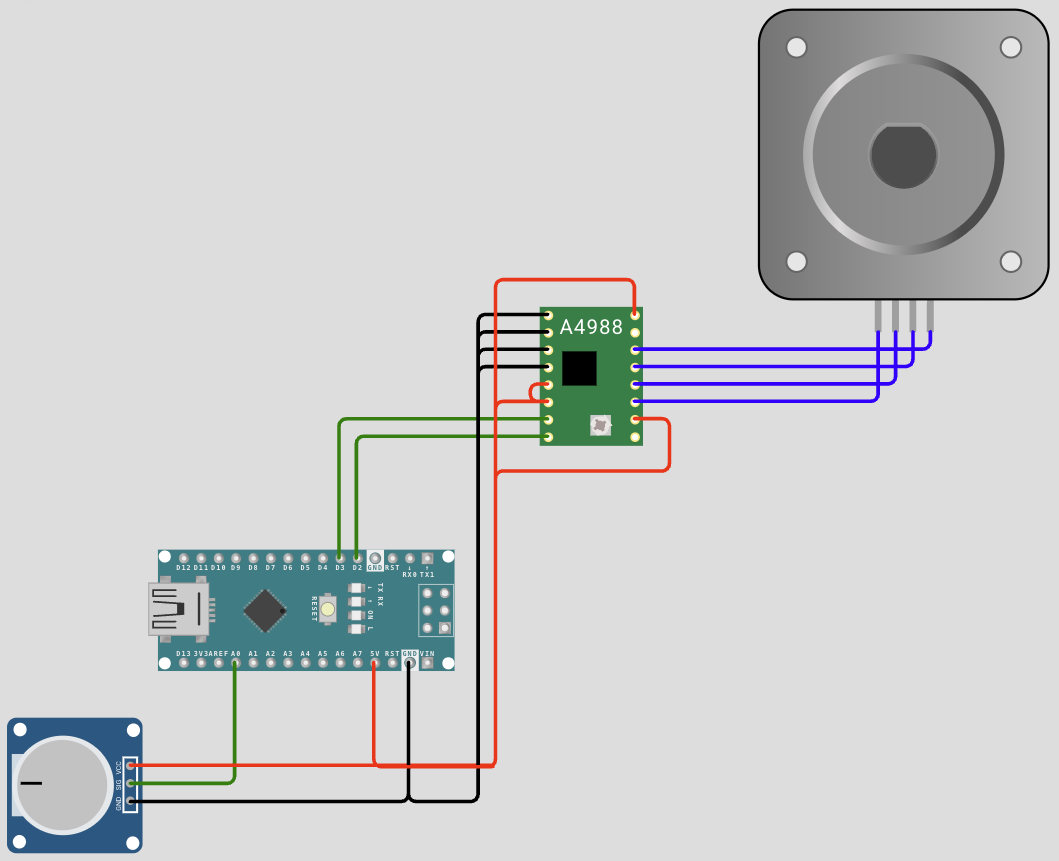
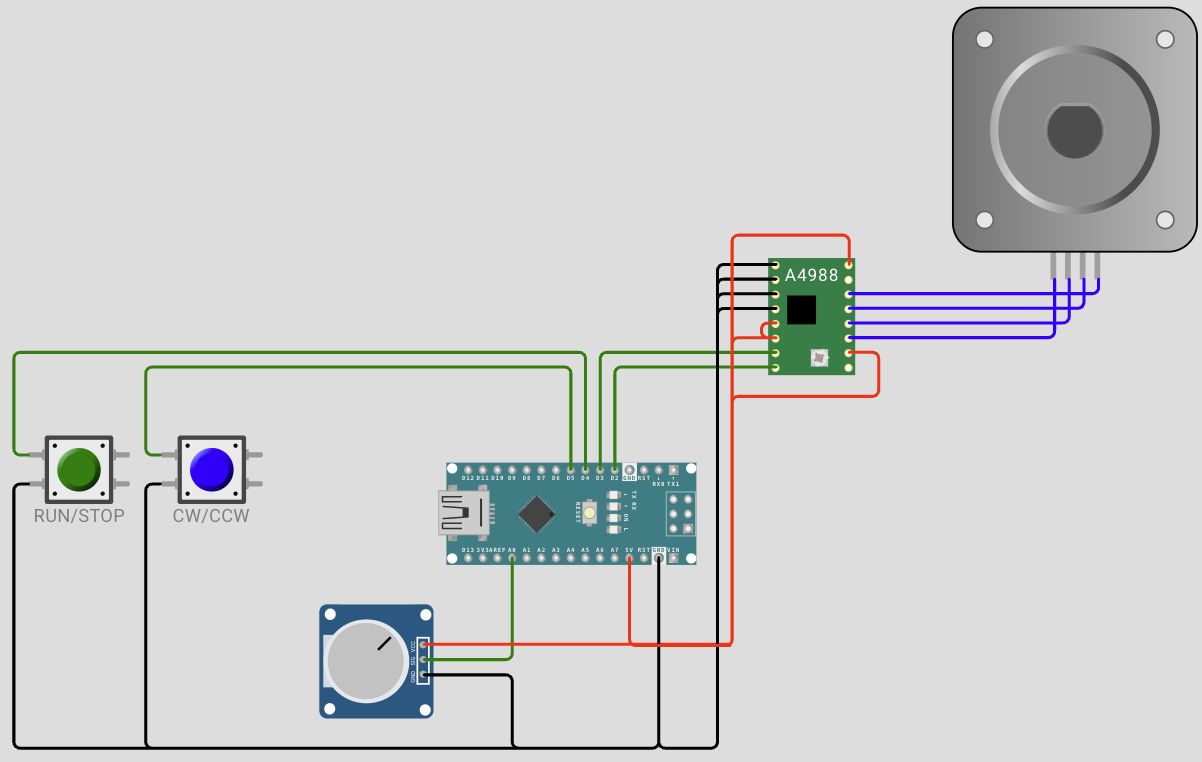
feat(stepper): add run/stop and CW/CCW buttons with proper accel/decel on reversal
- What: two debounced pushbuttons (run/stop on D4, direction on D5) toggling running/clockwise state each press, both read unconditionally every loop so direction can be changed while stopped; extracted Button.h as a standalone, stepper-agnostic debounced-edge-detector (was inline in Stepper.h); rewrote the Library strategy from AccelStepper's constant-speed setSpeed()/runSpeed() to its moveTo()/run() with setAcceleration(), retargeting far ahead in the current direction so continuous rotation still ramps properly, including through a live direction reversal; added two pushbuttons to the Wokwi diagram
- Why: the constant-speed API has zero acceleration, so a direction-button press while spinning would have instantly reversed the motor at full speed -- a real risk of skipped steps and mechanical stress on actual hardware, not just a simulation nicety; Button.h didn't belong scoped inside Stepper.h since debouncing a switch and mapping a pot to a speed are unrelated concerns
- How: moveTo()/run() only ramps speed while approaching a target, so "spin indefinitely" means retargeting far ahead and never arriving; a direction flip (or the target getting close) retargets far the other way, and run() decelerates to a stop then accelerates the other way using the library's own ramp; setMaxSpeed() is refreshed from the pot every call so stopping also ramps down smoothly instead of cutting the motor
[…]

Changed region(s): [[0.0, 0.0, 0.9972, 0.9961]]

diff --git a/arduino-nano/stepper/src/main.cpp b/arduino-nano/stepper/src/main.cpp
@@ -1,46 +1,76 @@
 #include <Arduino.h>
 #include <AccelStepper.h>
 
+#include "Button.h"
 #include "Stepper.h"
 
 namespace {
 
 // Pin assignments. ENABLE/MS1/MS2/MS3 are hardwired to GND on the driver board (always enabled,
 // full-step) rather than driven by the MCU -- this project is about step-pulse timing, not
-// microstepping, so keeping those off the pin list keeps the firmware to just pot + DIR + STEP.
+// microstepping, so keeping those off the pin list keeps the firmware to just pot + DIR + STEP +
+// two buttons.
 constexpr uint8_t PIN_POT = A0;
 constexpr uint8_t PIN_DIR = 2;
 constexpr uint8_t PIN_STEP = 3;
+constexpr uint8_t PIN_BTN_RUN_STOP = 4;
+constexpr uint8_t PIN_BTN_DIRECTION = 5;
 
 constexpr uint8_t EMA_SHIFT = 3;  // pot smoothing strength
 
-// Stepper strategy: Library (AccelStepper's constant-speed runSpeed(), which handles step timing
-// for you) vs DirectPulse (from-scratch micros()-timed step generation, no library, no
-// acceleration curve -- see README's "Stepper strategy" section for why both exist).
+// Stepper strategy: Library (AccelStepper's moveTo()/run(), ramped by setAcceleration() -- see
+// renderLibrary() below) vs DirectPulse (from-scratch micros()-timed step generation, no library,
+// no acceleration curve -- see README's "Stepper strategy" section for why both exist).
 enum class StepMode : uint8_t { Library, DirectPulse };
 constexpr StepMode STEP_MODE = StepMode::Library;
+
+constexpr float STEPPER_ACCELERATION = 500;  // steps/sec^2 -- ramp rate for Library mode
+// Retargeted far ahead in the current direction so run() always has room to ramp up to cruise
+// speed without ever actually arriving -- see renderLibrary()'s comment for why.
+constexpr long FAR_STEPS = 2000000L;
 
 // Serial/Teleplot trace of raw -> speed, off by default -- flip to true to debug.
 constexpr bool     DEBUG_TRACE_ENABLED     = false;
 constexpr uint32_t DEBUG_TRACE_INTERVAL_MS = 200;
 
 uint16_t smoothed = 0;
+bool     running   = false;  // starts stopped -- safer default than spinning on power-up
+bool     clockwise = true;
+
+input::Button runStopButton;
+input::Button directionButton;
 
 AccelStepper accelStepper(AccelStepper::DRIVER, PIN_STEP, PIN_DIR);
-uint32_t lastStepMicros = 0;
-bool     stepPinHigh    = false;
+bool         lastClockwise = true;  // direction the current moveTo() target was set for
+uint32_t     lastStepMicros = 0;
+bool         stepPinHigh    = false;
 
-// AccelStepper's constant-speed mode: no acceleration curve, just steps at a fixed rate until
-// the speed changes. setSpeed() takes signed steps/sec (negative = reverse); this project only
-// spins one direction, so speed is always >= 0.
-void renderLibrary(uint16_t speed) {
-  accelStepper.setSpeed(speed);
-  accelStepper.runSpeed();
+// Continuous, speed-controlled rotation with a proper accel/decel ramp -- including on direction
+// reversal -- built entirely from AccelStepper's moveTo()/run(), not a custom ramp. The trick:
+// run() only ramps speed *while approaching a moveTo() target*, so "spin indefinitely" means
+// retargeting far ahead in the current direction and never actually arriving. On a direction
+// flip (or once the target gets close), retarget far the other way; run() then decelerates to a
+// stop at setAcceleration()'s rate and accelerates the other way -- the same mechanism that
+// would otherwise just slow down to arrive at a real target. setMaxSpeed() is updated every call
+// so the pot continuously retargets the cruise speed, which also means stopping (speed 0) ramps
+// down smoothly instead of cutting the motor immediately.
+//
+// AccelStepper owns the DIR pin itself for the DRIVER interface -- this never writes to it
+// directly (that would fight the library for control of the pin).
+void renderLibrary(uint16_t speed, bool clockwise) {
+  if (clockwise != lastClockwise || labs(accelStepper.distanceToGo()) < FAR_STEPS / 10) {
+    lastClockwise = clockwise;
+    accelStepper.moveTo(accelStepper.currentPosition() + (clockwise ? FAR_STEPS : -FAR_STEPS));
+  }
+  accelStepper.setMaxSpeed(speed);
+  accelStepper.run();
 }
 
 // From-scratch step-pulse generator: toggles STEP high/low at stepIntervalMicros(speed), timed
-// entirely by micros() -- no AccelStepper involved. speed == 0 holds STEP low (motor at rest).
-void renderDirectPulse(uint16_t speed) {
+// entirely by micros() -- no AccelStepper involved, so DIR is ours to drive directly. speed == 0
+// holds STEP low (motor at rest).
+void renderDirectPulse(uint16_t speed, bool clockwise) {
+  digitalWrite(PIN_DIR, clockwise ? HIGH : LOW);
   if (speed == 0) {
     digitalWrite(PIN_STEP, LOW);
     return;
@@ -52,13 +82,16 @@ void renderDirectPulse(uint16_t speed) {
   }
 }
 
-// Teleplot-format trace (raw pot -> speed), throttled so it doesn't flood Serial.
+// Teleplot-format trace (raw pot -> speed, plus run/direction state), throttled so it doesn't
+// flood Serial.
 void logDebugTrace(uint16_t raw, uint16_t speed) {
   static uint32_t lastPrintMs = 0;
   if (millis() - lastPrintMs < DEBUG_TRACE_INTERVAL_MS) return;
   lastPrintMs = millis();
-  Serial.print(">raw:");   Serial.println(raw);
-  Serial.print(">speed:"); Serial.println(speed);
+  Serial.print(">raw:");       Serial.println(raw);
+  Serial.print(">speed:");     Serial.println(speed);
+  Serial.print(">running:");   Serial.println(running);
+  Serial.print(">clockwise:"); Serial.println(clockwise);
 }
 
 }  // namespace
@@ -69,20 +102,25 @@ void setup() {
   pinMode(PIN_POT, INPUT);
   pinMode(PIN_DIR, OUTPUT);
   pinMode(PIN_STEP, OUTPUT);
-  digitalWrite(PIN_DIR, HIGH);  // fixed rotation direction
+  pinMode(PIN_BTN_RUN_STOP, INPUT_PULLUP);
+  pinMode(PIN_BTN_DIRECTION, INPUT_PULLUP);
 
   smoothed = analogRead(PIN_POT);  // start at the pot's actual position, not ramped up from 0
 
-  accelStepper.setMaxSpeed(stepper::MAX_SPEED_STEPS_PER_SEC + 1);  // headroom above setSpeed()'s max
+  accelStepper.setAcceleration(STEPPER_ACCELERATION);
+  accelStepper.moveTo(FAR_STEPS);  // initial target; renderLibrary() retargets as needed
 }
 
 void loop() {
+  if (runStopButton.pressed(digitalRead(PIN_BTN_RUN_STOP) == LOW)) running = !running;
+  if (directionButton.pressed(digitalRead(PIN_BTN_DIRECTION) == LOW)) clockwise = !clockwise;
+
   uint16_t raw = analogRead(PIN_POT);
   smoothed = stepper::emaStep(smoothed, raw, EMA_SHIFT);
-  uint16_t speed = stepper::potToSpeed(smoothed);
+  uint16_t speed = running ? stepper::potToSpeed(smoothed) : 0;
 
-  if (STEP_MODE == StepMode::Library) renderLibrary(speed);
-  else renderDirectPulse(speed);
+  if (STEP_MODE == StepMode::Library) renderLibrary(speed, clockwise);
+  else renderDirectPulse(speed, clockwise);
 
   if (DEBUG_TRACE_ENABLED) logDebugTrace(raw, speed);
 }

diff --git a/arduino-nano/stepper/include/Button.h b/arduino-nano/stepper/include/Button.h
@@ -1,0 +1,31 @@
+#pragma once
+
+#include <stdint.h>
+
+// Debounced push button (pure). Feed the raw "pressed" state once per frame; returns true once
+// on each fresh press (rising edge) after DEBOUNCE consistent samples. Hardware-free (no
+// Arduino/AVR headers) so it unit-tests off-device. Generic -- not stepper-specific, reusable by
+// any project needing debounced button input. Same pattern as
+// arduino-nano/led-dimmer-ws2812's Button class.
+namespace input {
+
+class Button {
+ public:
+  bool pressed(bool raw) {
+    if (raw == state_) {
+      count_ = 0;
+      return false;
+    }
+    if (++count_ < DEBOUNCE) return false;  // not yet stable
+    count_ = 0;
+    state_ = raw;   // commit the new debounced state
+    return state_;  // a fresh press only (true when committing pressed)
+  }
+
+ private:
+  static constexpr uint8_t DEBOUNCE = 3;
+  bool state_ = false;  // committed state: false = released
+  uint8_t count_ = 0;   // consecutive samples differing from state_
+};
+
+}  // namespace input

diff --git a/arduino-nano/stepper/include/Stepper.h b/arduino-nano/stepper/include/Stepper.h
@@ -5,7 +5,9 @@
 // Potentiometer -> stepper speed. Hardware-free (no Arduino/AVR headers) so it unit-tests
 // off-device. One pot sets rotation speed (0..MAX_SPEED_STEPS_PER_SEC), rendered by one of two
 // strategies in main.cpp -- the AccelStepper library's constant-speed mode, or a from-scratch
-// step-pulse generator -- see README's "Stepper strategy" section for why both exist.
+// step-pulse generator -- see README's "Stepper strategy" section for why both exist. Knows
+// nothing about the run/stop or direction buttons (see Button.h) -- main.cpp reads those and
+// passes plain speed/clockwise values in.
 namespace stepper {
 
 constexpr uint16_t ADC_MAX = 1023;
